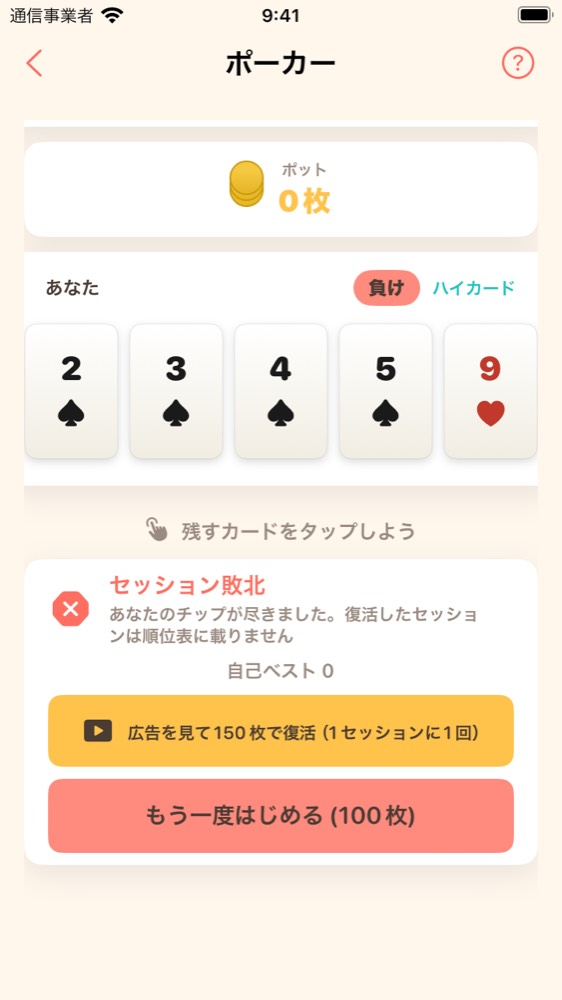
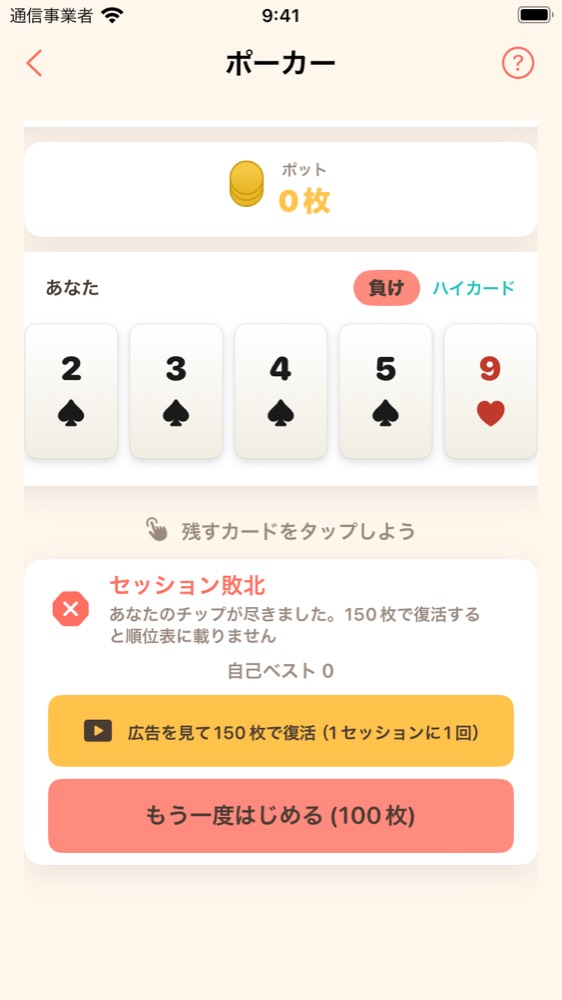
fix(poker,blackjack): 案内文に復活の枚数を戻し、ダブルアップの計算をテストで固定する（#523）
- 見出し下の説明を「N枚で復活すると順位表に載りません」にして、案内文にも枚数を出す（SE で 1 行に収まることを撮影で確認）
- ボーナスルールのダブルアップを、復活後の手持ち（140 対 90）で最後まで通すテストを追加

Changed region(s): [[0.1815, 0.62, 0.5142, 0.651], [0.605, 0.589, 0.847, 0.62]]

diff --git a/Packages/GameKit/Tests/GamePokerTests/PokerRewardedAdTests.swift b/Packages/GameKit/Tests/GamePokerTests/PokerRewardedAdTests.swift
@@ -452,6 +452,70 @@ struct PokerReviveUnevenTableTests {
         }
     }
 
+    /// ボーナスルールのダブルアップは手持ちから賭け金を引く（`startDoubleUp`）ので、片側だけ多い卓でも
+    /// 引きすぎないことを見る。配りは乱数で勝ちを狙って作れないため、復活直後に 1 局目のアンティを
+    /// 払った状態（150 - 10 = 140 対 90）を中断データで作り、札を決め打ちする。
+    @Test("ボーナスルールのダブルアップも、復活後の手持ちで計算が崩れない")
+    func doubleUpWorksOnRevivedTable() async {
+        let spy = SpyGameCenterService()
+        let reporter = GameCenterReporter(service: spy, allowedGameIDs: ["poker"])
+        let suiteName = "asobiba.poker.revive.uneven.doubleup"
+        let defaults = UserDefaults(suiteName: suiteName)!
+        defaults.removePersistentDomain(forName: suiteName)
+
+        let store = MemorySnapshotStore()
+        // 自分はツーペア（K・9）、CPU はハイカード。CPU はツーペア未満なのでチェックに返し、ショーダウンで自分が勝つ。
+        let playerHand = [
+            PokerCard(id: 11, suit: .spades, rank: 13), PokerCard(id: 24, suit: .hearts, rank: 13),
+            PokerCard(id: 33, suit: .diamonds, rank: 9), PokerCard(id: 46, suit: .clubs, rank: 9),
+            PokerCard(id: 3, suit: .spades, rank: 5),
+        ]
+        let cpuHand = [
+            PokerCard(id: 27, suit: .diamonds, rank: 3), PokerCard(id: 15, suit: .hearts, rank: 4),
+            PokerCard(id: 4, suit: .spades, rank: 6), PokerCard(id: 34, suit: .diamonds, rank: 10),
+            PokerCard(id: 22, suit: .hearts, rank: 11),
+        ]
+        // 見せ札 5 → めくり札 10（ハイで当たり）。
+        let deck = [PokerCard(id: 16, suit: .hearts, rank: 5), PokerCard(id: 8, suit: .spades, rank: 10)]
+        let snap = PokerSnapshot(
+            playerHand: playerHand, cpuHand: cpuHand, deck: deck,
+            playerChips: PokerModel.reviveChips - 10, cpuChips: PokerModel.initialChips - 10, pot: 20,
+            phase: .betting2, currentBet: 0,
+            playerBetInRound: 0, cpuBetInRound: 0,
+            cpuFolded: false, cpuAction: "",
+            rules: .bonus,
+            hasRevivedThisSession: true
+        )
+        try? store.save(snap, for: "poker")
+        let model = PokerModel(services: GameServices(
+            snapshots: store, ads: StubAdService(rewardEarned: true),
+            playLog: PlayLog(defaults: defaults), gameCenter: reporter
+        ))
+
+        model.bet2Action(.check)
+        #expect(model.winner == .player)
+        let bonus = PokerBonusTable.chips(for: .twoPair)
+        let winnings = 20 + bonus
+        #expect(model.pendingWinnings == winnings)
+        #expect(model.canStartDoubleUp, "ダブルアップの提示まで進んでいる")
+
+        let beforeDoubleUp = model.playerChips
+        model.startDoubleUp()
+        #expect(model.playerChips == beforeDoubleUp - winnings, "賭けるのはこの局で得た分だけ")
+        #expect(model.playerChips == PokerModel.reviveChips - 10, "復活後の手持ちには手を付けない")
+
+        model.guessDoubleUp(.high)
+        #expect(model.doubleUp?.result == .success)
+        model.takeDoubleUpWinnings()
+
+        #expect(model.playerChips == PokerModel.reviveChips - 10 + winnings * 2)
+        #expect(model.cpuChips == PokerModel.initialChips - 10, "CPU 側の手持ちは動かない")
+        #expect(!model.sessionOver)
+        #expect(model.canStartRound, "次の局へ進める")
+        #expect(model.recordResult != nil, "ダブルアップの後に記録を確定する")
+        #expect(spy.scores.isEmpty, "復活したセッションは、ボーナスルールでも順位表へ送らない")
+    }
+
     @Test("復活したセッションで自分が勝ち切っても、決着・記録・次のセッションは今と同じ")
     func revivedSessionWonByPlayerConcludesAsBefore() async {
         let spy = SpyGameCenterService()

diff --git a/Packages/GameKit/Sources/GameBlackjack/BlackjackView.swift b/Packages/GameKit/Sources/GameBlackjack/BlackjackView.swift
@@ -413,12 +413,12 @@ public struct BlackjackView: View {
     /// チップ切れの見出し下の説明。復活を使い切ったら選べる手を書き換える（#499）。
     /// 数値は `Text` 補間の桁区切り（#484）を避けて文字列を先に組む。
     ///
-    /// 復活できるあいだは、枚数の比較をボタン 2 つに任せて**順位表に載らないこと**を書く（#523）。
+    /// 復活できるあいだは、もらえる枚数と**順位表に載らないこと**を並べて書く（#523）。
     /// 復活のほうがチップは多いので、失うものも選ぶ前に読めるようにする。SE は縦に余裕が無く、
-    /// 2 行にすると画面の上端がナビゲーションバーに潜るため 1 行に収まる長さにしている。
+    /// 3 行にすると画面の上端がナビゲーションバーに潜るため、SE の幅で 1 行に収まる長さにしている。
     private var sessionOverSubtitle: String {
         model.canReviveAfterBust
-            ? "復活したセッションは順位表に載りません"
+            ? "\(BlackjackModel.reviveChips)枚で復活すると順位表に載りません"
             : "復活はこのセッションで使いました。最初からやり直せます"
     }
 

diff --git a/Packages/GameKit/Sources/GamePoker/PokerView.swift b/Packages/GameKit/Sources/GamePoker/PokerView.swift
@@ -637,7 +637,7 @@ public struct PokerView: View {
         default:
             // 復活のほうがチップは多い（#523）ぶん、順位表に載らないことも選ぶ前に読める場所へ書く。
             return model.canReviveAfterBust
-                ? "あなたのチップが尽きました。復活したセッションは順位表に載りません"
+                ? "あなたのチップが尽きました。\(PokerModel.reviveChips)枚で復活すると順位表に載りません"
                 : "あなたのチップが尽きました。復活はこのセッションで使いました"
         }
     }
